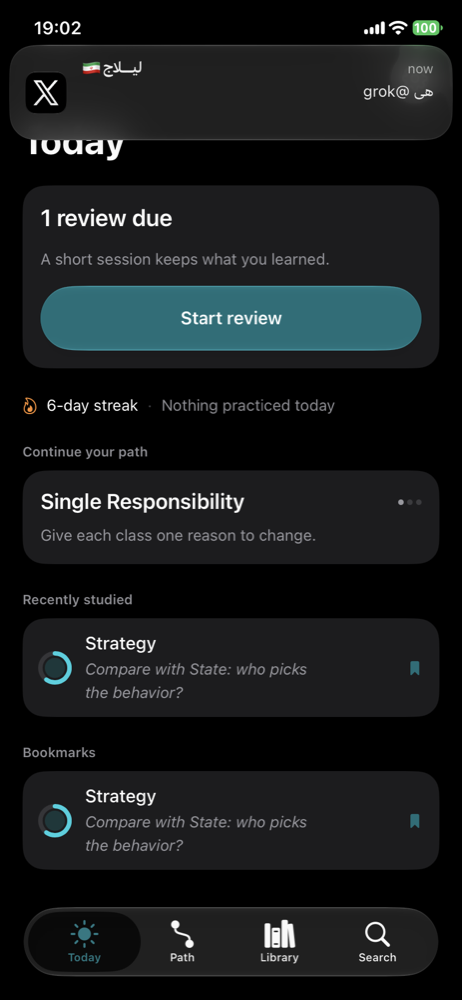
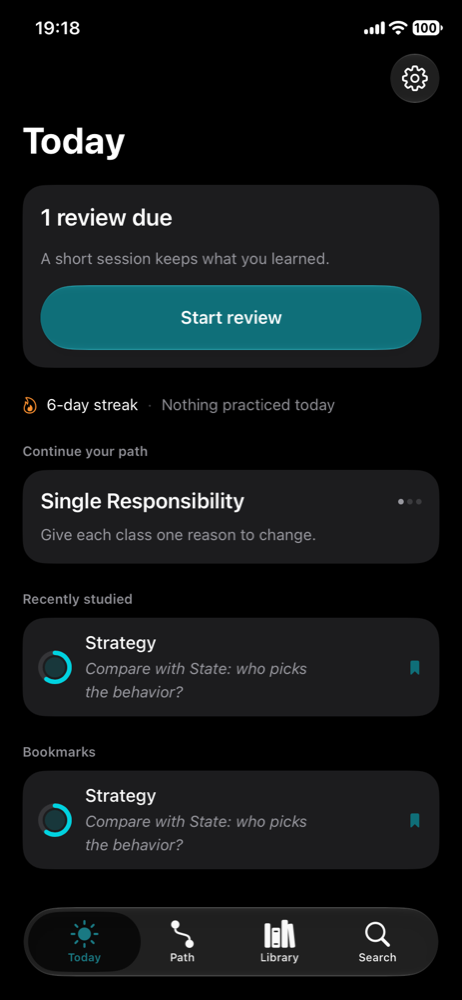
Add developer-style README poster; recapture Today screen

diff --git a/Tools/make_poster.swift b/Tools/make_poster.swift
@@ -1,0 +1,247 @@
+#!/usr/bin/env swift
+// Renders the Kata README poster (docs/poster.png + docs/poster.jpg), 2400x1600.
+// Deterministic: CoreGraphics + CoreText + ImageIO only, no network.
+// Run from the repository root:  swift Tools/make_poster.swift
+import CoreGraphics
+import CoreText
+import Foundation
+import ImageIO
+import UniformTypeIdentifiers
+
+let W: CGFloat = 2400, Hh: CGFloat = 1600
+let space = CGColorSpace(name: CGColorSpace.sRGB)!
+func Y(_ y: CGFloat) -> CGFloat { Hh - y }
+func color(_ hex: UInt32, _ a: CGFloat = 1) -> CGColor {
+    CGColor(colorSpace: space, components: [
+        CGFloat((hex >> 16) & 0xFF) / 255, CGFloat((hex >> 8) & 0xFF) / 255, CGFloat(hex & 0xFF) / 255, a])!
+}
+func grad(_ stops: [(UInt32, CGFloat, CGFloat)]) -> CGGradient {
+    CGGradient(colorsSpace: space, colors: stops.map { color($0.0, $0.1) } as CFArray, locations: stops.map { $0.2 })!
+}
+
+// Palette (accent = AccentColor.colorset #0F6E78)
+let bg: UInt32 = 0x0B1215, accent: UInt32 = 0x0F6E78, glowTeal: UInt32 = 0x2BB8C6
+let fg: UInt32 = 0xE6EDF0, dim: UInt32 = 0x7C969B, comment: UInt32 = 0x5F8A8F
+let kw: UInt32 = 0xFF7AB6, typ: UInt32 = 0x56D4DD, str: UInt32 = 0xE6C07B, num: UInt32 = 0xB48EF5
+let bezel: UInt32 = 0x07090B
+
+// Fonts: SF Mono if CoreText resolves it, else Menlo, else Courier.
+func mono(_ size: CGFloat, bold: Bool = false) -> CTFont {
+    let names = bold ? ["SFMono-Bold", "Menlo-Bold", "Courier-Bold"] : ["SFMono-Medium", "SFMono-Regular", "Menlo-Regular", "Courier"]
+    for n in names {
+        let f = CTFontCreateWithName(n as CFString, size, nil)
+        if (CTFontCopyPostScriptName(f) as String) == n { return f }
+    }
+    return CTFontCreateWithName("Menlo" as CFString, size, nil)
+}
+
+let ctx = CGContext(data: nil, width: Int(W), height: Int(Hh), bitsPerComponent: 8, bytesPerRow: 0,
+                    space: space, bitmapInfo: CGImageAlphaInfo.premultipliedLast.rawValue)!
+ctx.setLineJoin(.round); ctx.setLineCap(.round)
+ctx.setAllowsFontSmoothing(false)
+
+func fillPath(_ p: CGPath, _ c: CGColor) { ctx.addPath(p); ctx.setFillColor(c); ctx.fillPath() }
+func strokePath(_ p: CGPath, _ c: CGColor, _ w: CGFloat) { ctx.addPath(p); ctx.setStrokeColor(c); ctx.setLineWidth(w); ctx.strokePath() }
+func rrect(_ x0: CGFloat, _ y0: CGFloat, _ x1: CGFloat, _ y1: CGFloat, _ r: CGFloat) -> CGPath {
+    CGPath(roundedRect: CGRect(x: x0, y: Y(y1), width: x1 - x0, height: y1 - y0), cornerWidth: r, cornerHeight: r, transform: nil)
+}
+func circle(_ cx: CGFloat, _ cy: CGFloat, _ r: CGFloat) -> CGPath {
+    CGPath(ellipseIn: CGRect(x: cx - r, y: Y(cy) - r, width: 2 * r, height: 2 * r), transform: nil)
+}
+func line(_ x0: CGFloat, _ y0: CGFloat, _ x1: CGFloat, _ y1: CGFloat, _ c: CGColor, _ w: CGFloat) {
+    let p = CGMutablePath(); p.move(to: CGPoint(x: x0, y: Y(y0))); p.addLine(to: CGPoint(x: x1, y: Y(y1))); strokePath(p, c, w)
+}
+
+typealias Run = (String, UInt32)
+func runsWidth(_ runs: [Run], _ font: CTFont) -> CGFloat {
+    runs.reduce(0) { acc, r in
+        acc + CGFloat(CTLineGetTypographicBounds(CTLineCreateWithAttributedString(NSAttributedString(string: r.0, attributes: [NSAttributedString.Key(kCTFontAttributeName as String): font])), nil, nil, nil))
+    }
+}
+/// Draws coloured runs; align 0 = left at x, 0.5 = centred on x, 1 = right-aligned.
+func text(_ runs: [Run], _ font: CTFont, x: CGFloat, base: CGFloat, align: CGFloat = 0, alpha: CGFloat = 1) {
+    var cx = x - runsWidth(runs, font) * align
+    for r in runs {
+        let attrs: [NSAttributedString.Key: Any] = [NSAttributedString.Key(kCTFontAttributeName as String): font,
+            NSAttributedString.Key(kCTForegroundColorAttributeName as String): color(r.1, alpha)]
+        let l = CTLineCreateWithAttributedString(NSAttributedString(string: r.0, attributes: attrs))
+        ctx.textPosition = CGPoint(x: cx, y: Y(base)); CTLineDraw(l, ctx)
+        cx += CGFloat(CTLineGetTypographicBounds(l, nil, nil, nil))
+    }
+}
+func loadImage(_ path: String) -> CGImage {
+    guard let src = CGImageSourceCreateWithURL(URL(fileURLWithPath: path) as CFURL, nil),
+          let im = CGImageSourceCreateImageAtIndex(src, 0, nil) else {
+        FileHandle.standardError.write(Data("cannot load \(path)\n".utf8)); exit(1)
+    }
+    return im
+}
+
+// ------------------------------------------------------------ Background
+ctx.setFillColor(color(bg)); ctx.fill(CGRect(x: 0, y: 0, width: W, height: Hh))
+ctx.drawRadialGradient(grad([(0x123238, 0.9, 0), (bg, 0, 1)]), startCenter: CGPoint(x: 1200, y: Y(900)), startRadius: 0,
+                       endCenter: CGPoint(x: 1200, y: Y(900)), endRadius: 1300, options: [])
+ctx.drawRadialGradient(grad([(glowTeal, 0.10, 0), (glowTeal, 0, 1)]), startCenter: CGPoint(x: 300, y: Y(150)), startRadius: 0,
+                       endCenter: CGPoint(x: 300, y: Y(150)), endRadius: 700, options: [])
+// dot grid
+for j in 0...40 { for i in 0...60 {
+    let on = (i % 5 == 0 && j % 5 == 0)
+    fillPath(circle(CGFloat(i) * 40, CGFloat(j) * 40, on ? 2.2 : 1.3), color(0x9FD8DE, on ? 0.13 : 0.07))
+} }
+// faint background code (Strategy sample)
+do {
+    let f = mono(34)
+    let code: [[Run]] = [
+        [("interface ", kw), ("PricingStrategy ", typ), ("{", fg)],
+        [("    BigDecimal ", typ), ("price", fg), ("(", fg), ("BigDecimal ", typ), ("base", fg), (");", fg)],
+        [("}", fg)], [("", fg)],
+        [("record ", kw), ("Seasonal", typ), ("(", fg), ("int ", kw), ("pct", fg), (") ", fg), ("implements ", kw), ("PricingStrategy ", typ), ("{", fg)],
+        [("    public ", kw), ("BigDecimal ", typ), ("price", fg), ("(", fg), ("BigDecimal ", typ), ("base", fg), (") {", fg)],
+        [("        return ", kw), ("base.multiply(", fg), ("factor", fg), (");", fg)],
+        [("    }", fg)], [("}", fg)], [("", fg)],
+        [("var ", kw), ("cart ", fg), ("= ", fg), ("new ", kw), ("Checkout", typ), ("(", fg), ("new ", kw), ("Seasonal", typ), ("(", fg), ("20", num), ("));", fg)],
+    ]
+    for (i, l) in code.enumerated() { text(l, f, x: 90, base: 500 + CGFloat(i) * 46, alpha: 0.055) }
+}
+
+// ------------------------------------------------------------ Title block
+let iconX: CGFloat = 110, iconY: CGFloat = 96, iconS: CGFloat = 168
+do {
+    let r = iconS * 0.225
+    let p = rrect(iconX, iconY, iconX + iconS, iconY + iconS, r)
+    ctx.saveGState(); ctx.setShadow(offset: CGSize(width: 0, height: -10), blur: 50, color: color(glowTeal, 0.45))
+    fillPath(p, color(accent)); ctx.restoreGState()
+    ctx.saveGState(); ctx.addPath(p); ctx.clip()
+    ctx.draw(loadImage("Kata/Resources/Assets.xcassets/AppIcon.appiconset/AppIcon.png"),
+             in: CGRect(x: iconX, y: Y(iconY + iconS), width: iconS, height: iconS))
+    ctx.restoreGState()
+    strokePath(rrect(iconX + 0.5, iconY + 0.5, iconX + iconS - 0.5, iconY + iconS - 0.5, r), color(0xFFFFFF, 0.18), 1.5)
+    let tf = mono(150, bold: true)
+    text([("Kata", fg)], tf, x: iconX + iconS + 40, base: iconY + 128)
+    let tw = runsWidth([("Kata", fg)], tf)
+    // cursor block
+    let cx = iconX + iconS + 40 + tw + 18
+    ctx.saveGState(); ctx.setShadow(offset: .zero, blur: 24, color: color(glowTeal, 0.8))
+    fillPath(rrect(cx, iconY + 28, cx + 54, iconY + 136, 6), color(glowTeal)); ctx.restoreGState()
+    text([("// ", comment), ("master design patterns through deliberate practice", comment)], mono(35), x: iconX, base: 342)
+    // chips
+    let cf = mono(24)
+    let chips = ["70 patterns", "Java 21", "350 exercises", "FSRS", "UML diagrams", "offline", "iOS 26"]
+    var x = iconX
+    for (i, c) in chips.enumerated() {
+        let runs: [Run] = [("$ ", glowTeal), (c, fg)]
+        let w = runsWidth(runs, cf) + 40
+        let p = rrect(x, 390, x + w, 446, 12)
+        fillPath(p, color(i == 0 ? accent : 0x14232A, i == 0 ? 0.9 : 1))
+        strokePath(rrect(x + 0.75, 390.75, x + w - 0.75, 445.25, 11.5), color(glowTeal, i == 0 ? 0.9 : 0.35), 1.5)
+        text(runs, cf, x: x + 20, base: 426)
+        x += w + 14
+    }
+}
+// terminal card (top right)
+do {
+    let x0: CGFloat = 1640, y0: CGFloat = 96, x1: CGFloat = 2290, y1: CGFloat = 446
+    let card = rrect(x0, y0, x1, y1, 22)
+    ctx.saveGState(); ctx.setShadow(offset: CGSize(width: 0, height: -12), blur: 40, color: color(0x000000, 0.55))
+    fillPath(card, color(0x0F1A1F)); ctx.restoreGState()
+    strokePath(rrect(x0 + 0.75, y0 + 0.75, x1 - 0.75, y1 - 0.75, 21.5), color(0xFFFFFF, 0.12), 1.5)
+    for (i, c) in [0xFF5F57, 0xFEBC2E, 0x28C840].enumerated() { fillPath(circle(x0 + 36 + CGFloat(i) * 28, y0 + 34, 8), color(UInt32(c), 0.9)) }
+    line(x0, y0 + 66, x1, y0 + 66, color(0xFFFFFF, 0.08), 1.5)
+    text([("kata \u{2014} today", dim)], mono(20), x: x1 - 28, base: y0 + 40, align: 1)
+    let f = mono(25)
+    let rows: [[Run]] = [
+        [("$ ", glowTeal), ("kata review --due", fg)],
+        [("  strategy   ", typ), ("Good   ", str), ("\u{2192} 9d", dim)],
+        [("  observer   ", typ), ("Again  ", kw), ("\u{2192} 1d", dim)],
+        [("  decorator  ", typ), ("Easy   ", num), ("\u{2192} 21d", dim)],
+        [("  retention  ", dim), ("90%  ", str), ("\u{25AE}\u{25AE}\u{25AE}\u{25AE}\u{25AE}\u{25AE}\u{25AE}\u{25AE}\u{25AE}\u{25AF}", glowTeal)],
+        [("$ ", glowTeal), ("\u{2588}", glowTeal)],
+    ]
+    for (i, r) in rows.enumerated() { text(r, f, x: x0 + 32, base: y0 + 112 + CGFloat(i) * 44) }
+}
+
+// ------------------------------------------------------------ Phones
+struct Slot { let file, name: String; let note: String; let S: CGFloat }
+let slots: [Slot] = [
+    Slot(file: "01-today", name: "today()", note: "// next review", S: 640),
+    Slot(file: "02-path", name: "path()", note: "// guided path", S: 700),
+    Slot(file: "04-deck-definition", name: "definition()", note: "// one card, one idea", S: 780),
+    Slot(file: "05-deck-implementation", name: "implementation()", note: "// code walkthrough", S: 780),
+    Slot(file: "07-deck-structure", name: "structure()", note: "// native UML", S: 700),
+    Slot(file: "11-practice", name: "practice()", note: "// spaced repetition", S: 640),
+]
+func dims(_ S: CGFloat) -> (sw: CGFloat, b: CGFloat, dw: CGFloat, dh: CGFloat) {
+    let sw = 0.462 * S, b = 0.018 * S
+    return (sw, b, sw + 2 * b, S + 2 * b)
+}
+let gap: CGFloat = 22
+let total = slots.reduce(0) { $0 + dims($1.S).dw } + gap * CGFloat(slots.count - 1)
+var px = (W - total) / 2
+let bottom: CGFloat = 1296
+func phone(_ s: Slot, left: CGFloat) {
+    let (sw, b, dw, dh) = dims(s.S)
+    let rS = 0.125 * sw, rD = rS + b
+    let top = bottom - dh
+    let dev = rrect(left, top, left + dw, bottom, rD)
+    // glow + drop shadow
+    ctx.saveGState(); ctx.setShadow(offset: .zero, blur: 90, color: color(glowTeal, 0.28)); fillPath(dev, color(bezel)); ctx.restoreGState()
+    ctx.saveGState(); ctx.setShadow(offset: CGSize(width: 0, height: -26), blur: 60, color: color(0x000000, 0.6)); fillPath(dev, color(bezel)); ctx.restoreGState()
+    fillPath(dev, color(bezel))
+    // edge highlight (gradient stroke, bright top-left)
+    ctx.saveGState()
+    ctx.addPath(dev.copy(strokingWithWidth: 3, lineCap: .butt, lineJoin: .round, miterLimit: 4)); ctx.clip()
+    ctx.drawLinearGradient(grad([(0xBFD6DA, 0.75, 0), (0x4A6A70, 0.45, 0.45), (0x2A4045, 0.55, 1)]),
+                           start: CGPoint(x: left, y: Y(top)), end: CGPoint(x: left + dw, y: Y(bottom)), options: [])
+    ctx.restoreGState()
+    strokePath(rrect(left + 3.5, top + 3.5, left + dw - 3.5, bottom - 3.5, rD - 3.5), color(0x000000, 0.9), 1.5)
+    // screen
+    let sx = left + b, sy = top + b
+    let scr = rrect(sx, sy, sx + sw, sy + s.S, rS)
+    ctx.saveGState(); ctx.addPath(scr); ctx.clip()
+    ctx.setFillColor(color(0x000000)); ctx.fill(CGRect(x: sx, y: Y(sy + s.S), width: sw, height: s.S))
+    ctx.interpolationQuality = .high
+    ctx.draw(loadImage("docs/screenshots/\(s.file).png"), in: CGRect(x: sx, y: Y(sy + s.S), width: sw, height: s.S))
+    ctx.drawLinearGradient(grad([(0xFFFFFF, 0.07, 0), (0xFFFFFF, 0, 1)]),
+                           start: CGPoint(x: sx, y: Y(sy)), end: CGPoint(x: sx + 0.5 * sw, y: Y(sy + 0.35 * s.S)), options: [])
+    ctx.restoreGState()
+    // annotation
+    let cx = left + dw / 2
+    line(cx, bottom + 14, cx, bottom + 64, color(glowTeal, 0.55), 1.5)
+    fillPath(circle(cx, bottom + 14, 4.5), color(glowTeal))
+    fillPath(circle(cx, bottom + 64, 3), color(glowTeal, 0.55))
+    text([(s.name, fg)], mono(27, bold: true), x: cx, base: bottom + 104, align: 0.5)
+    text([(s.note, comment)], mono(22), x: cx, base: bottom + 138, align: 0.5)
+}
+for s in slots { phone(s, left: px); px += dims(s.S).dw + gap }
+
+// ------------------------------------------------------------ Category legend
+do {
+    let f = mono(24)
+    let cats = ["Foundations", "Creational", "Structural", "Behavioral", "Concurrency", "Enterprise", "Resilience"]
+    var runs: [Run] = [("final var ", kw), ("categories ", fg), ("= ", fg), ("List", typ), (".of(", fg)]
+    for (i, c) in cats.enumerated() { runs.append(("\"\(c)\"", str)); if i < cats.count - 1 { runs.append((", ", fg)) } }
+    runs.append((");", fg))
+    let w = runsWidth(runs, f)
+    let x0 = (W - w) / 2
+    line(110, 1486, W - 110, 1486, color(0xFFFFFF, 0.07), 1.5)
+    text(runs, f, x: x0, base: 1538)
+}
+
+// Vignette
+ctx.drawRadialGradient(grad([(0x000000, 0, 0), (0x000000, 0, 0.62), (0x000000, 0.4, 1)]),
+                       startCenter: CGPoint(x: 1200, y: Y(800)), startRadius: 0, endCenter: CGPoint(x: 1200, y: Y(800)),
+                       endRadius: 1500, options: [.drawsAfterEndLocation])
+
+// ------------------------------------------------------------ Output
+let image = ctx.makeImage()!
+func write(_ path: String, _ type: UTType, _ opts: [CFString: Any]?, _ im: CGImage) {
+    let d = CGImageDestinationCreateWithURL(URL(fileURLWithPath: path) as CFURL, type.identifier as CFString, 1, nil)!
+    CGImageDestinationAddImage(d, im, opts as CFDictionary?)
+    guard CGImageDestinationFinalize(d) else { FileHandle.standardError.write(Data("failed \(path)\n".utf8)); exit(1) }
+}
+write("docs/poster.png", .png, nil, image)
+let flat = CGContext(data: nil, width: Int(W), height: Int(Hh), bitsPerComponent: 8, bytesPerRow: 0, space: space,
+                     bitmapInfo: CGImageAlphaInfo.noneSkipLast.rawValue)!
+flat.draw(image, in: CGRect(x: 0, y: 0, width: W, height: Hh))
+write("docs/poster.jpg", .jpeg, [kCGImageDestinationLossyCompressionQuality: 0.9], flat.makeImage()!)
+print("done")

diff --git a/README.md b/README.md
@@ -9,6 +9,11 @@
 
 Kata is an iOS app for mastering software design patterns through deliberate practice, the way a martial artist drills a kata: small, exact forms, repeated until they are second nature.
 
+<p align="center"><img src="docs/poster.png" width="100%" alt="Kata poster: the app icon and title styled as code, 70 patterns, Java 21, 350 exercises, FSRS and UML, above six iPhone screens (today, guided path, definition, stepped code implementation, native UML structure, practice) and the seven pattern categories"></p>
+
+<details>
+<summary>All screens</summary>
+
 <p align="center">
 <table>
   <tr>
@@ -34,6 +39,7 @@ Kata is an iOS app for mastering software design patterns through deliberate pra
   </tr>
 </table>
 </p>
+</details>
 <p align="center"><sub><a href="docs/screenshots/">All screenshots, individually</a></sub></p>
 
 ## Why
